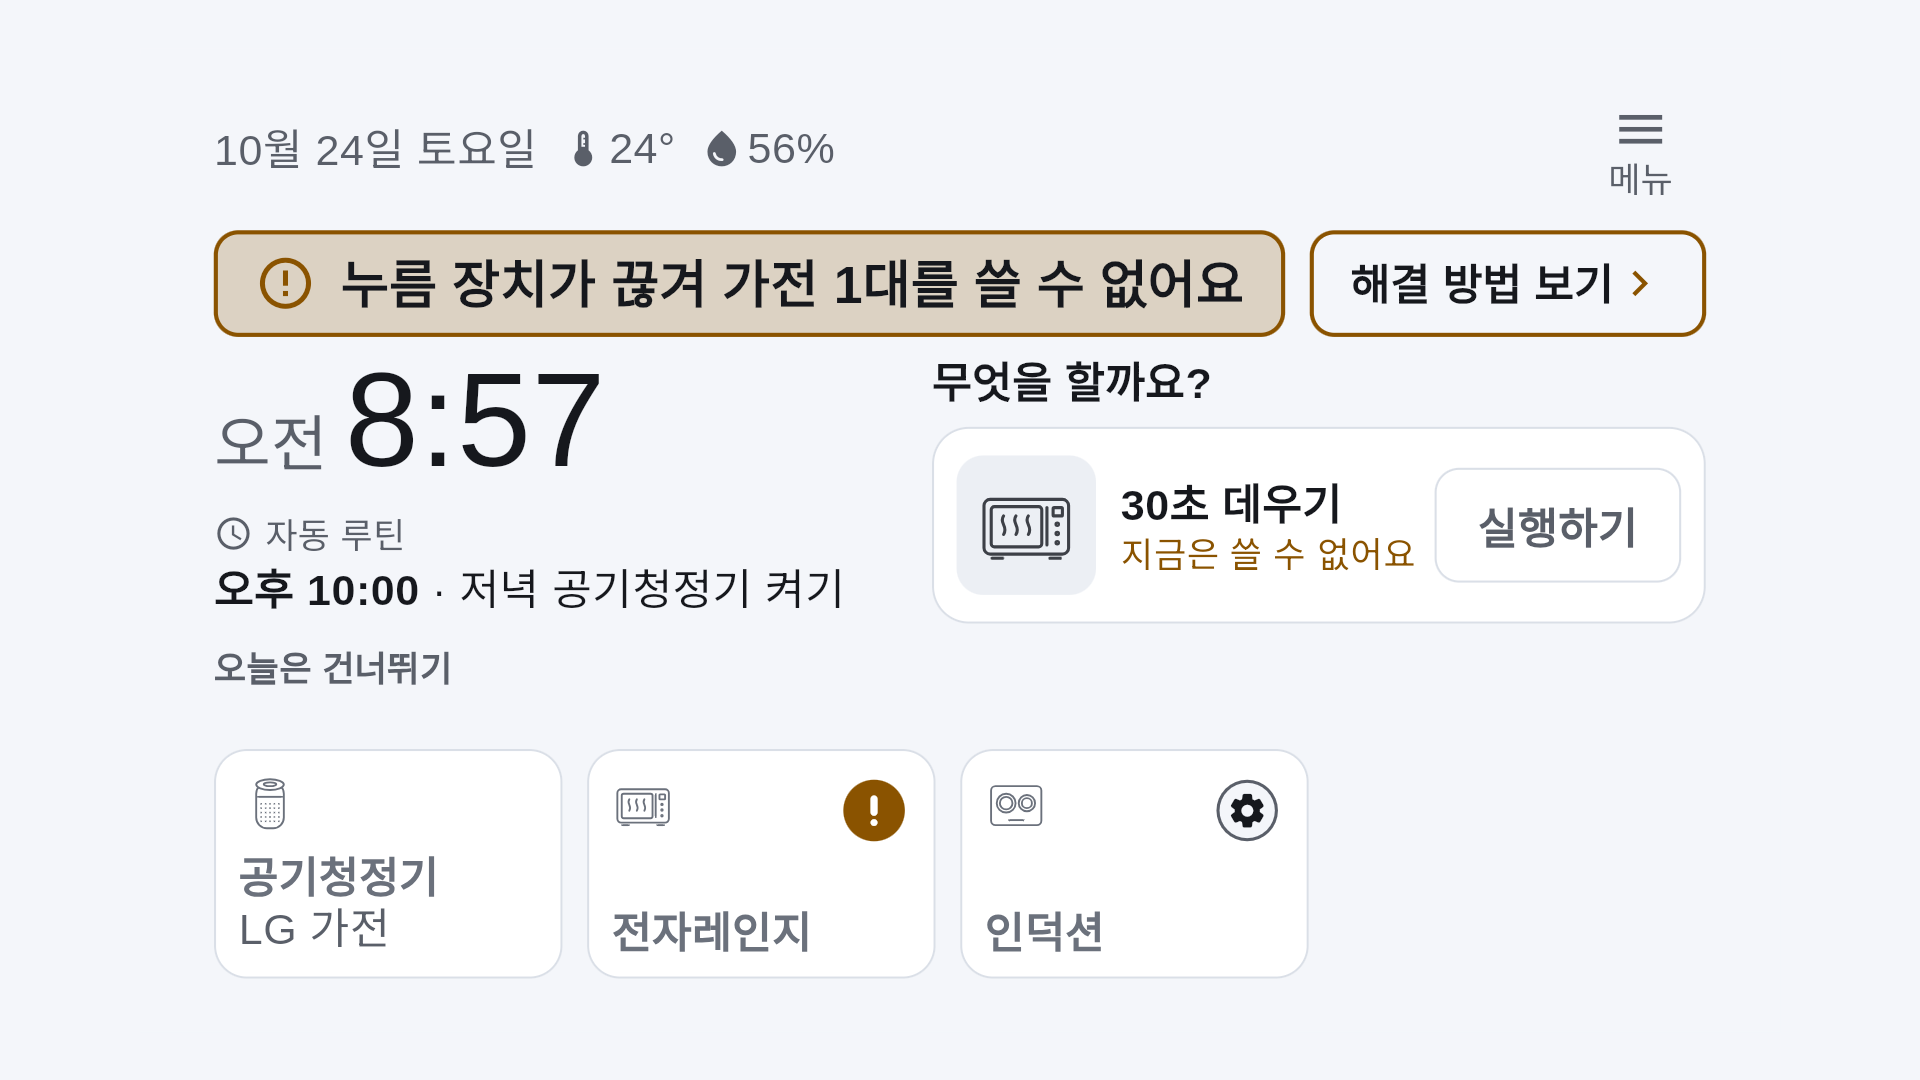
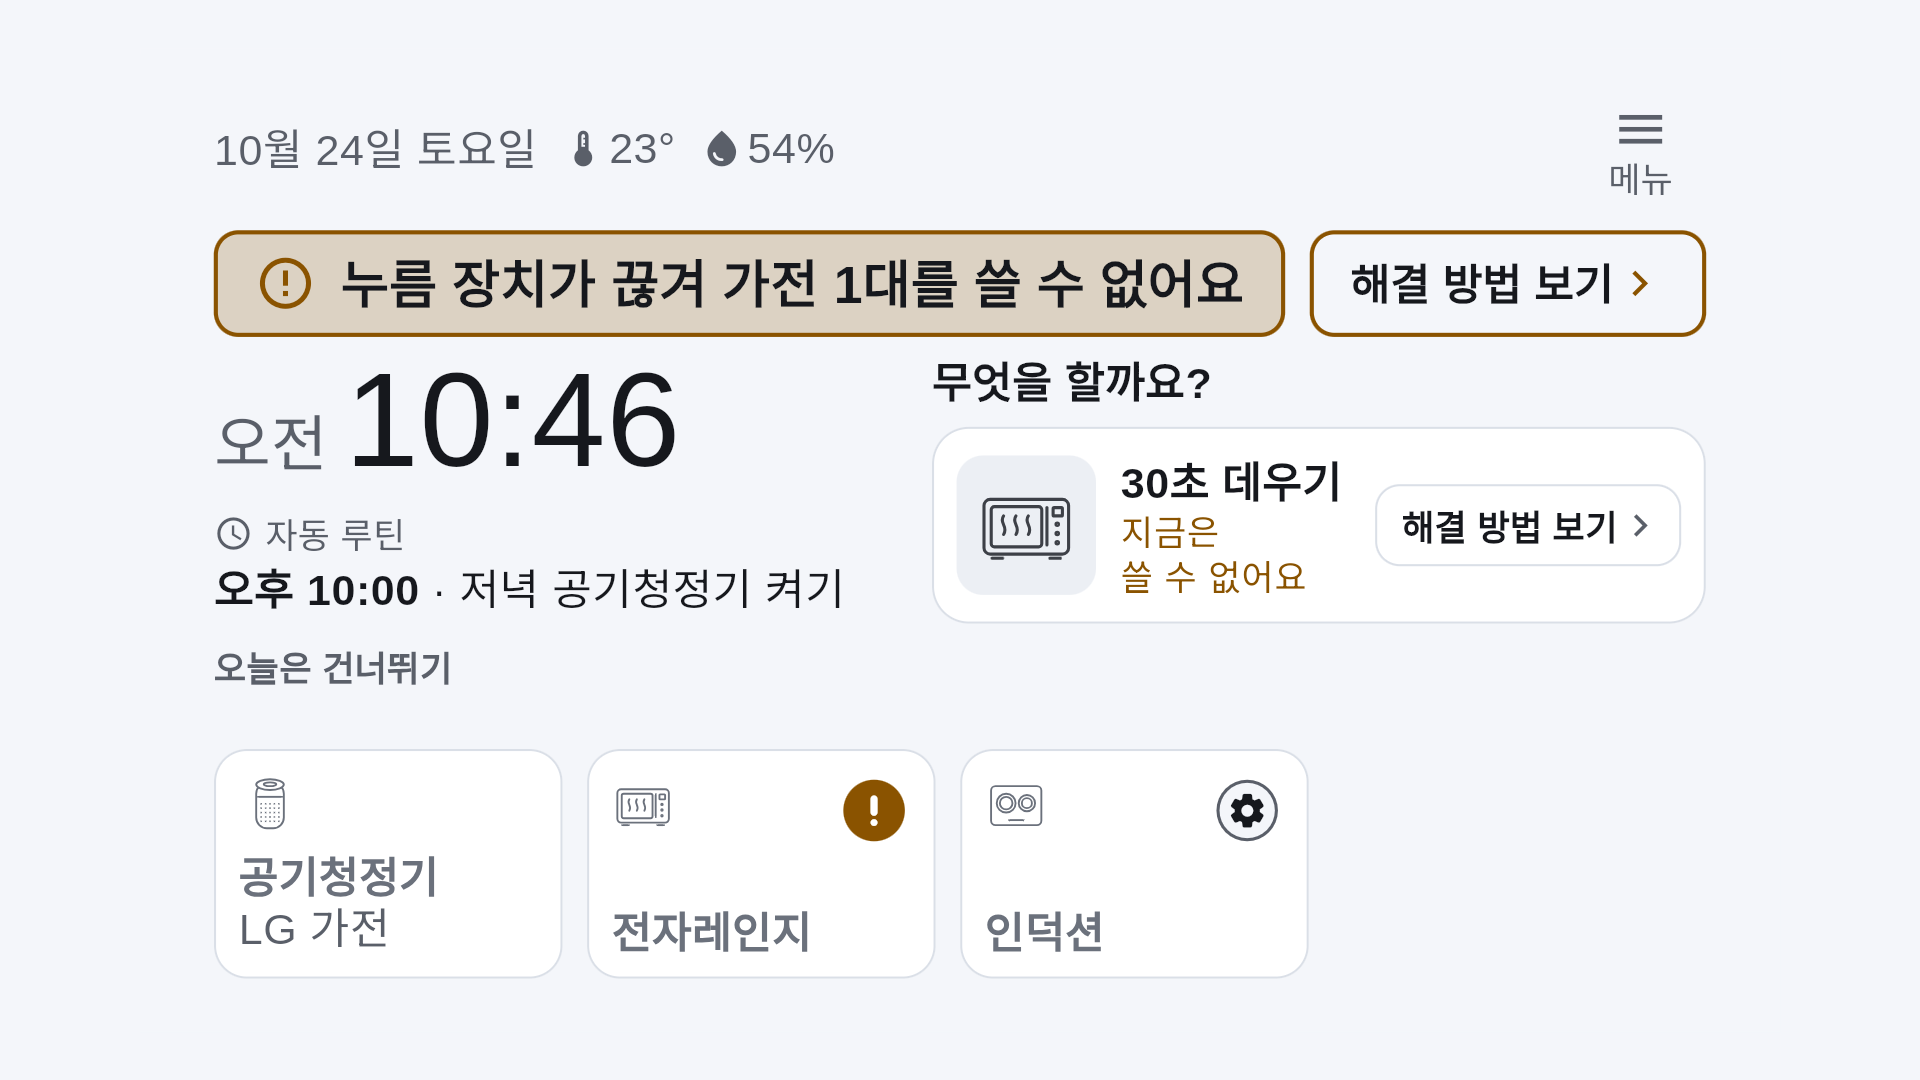
docs(devlog): 10/24 키오스크 개편·연속 조작·첫 사용 평가 3바퀴·코드 리뷰 기록, 실패널 처음 화면 갱신

diff --git a/docs/devlog/devlog_2026-10-24-kiosk-redesign-eval.md b/docs/devlog/devlog_2026-10-24-kiosk-redesign-eval.md
@@ -1,0 +1,49 @@
+# 2026-10-24 — 키오스크 개편·연속 조작·첫 사용 평가 3바퀴·코드 리뷰 (데스크톱)
+
+작업 방식(사용자 지시): 구현은 서브에이전트, 처음 쓰는 사람 관점 평가는 사전 정보 없는 평가 에이전트(매 바퀴 새로), 메인은 판단·커밋·배포.
+
+## 1. 한 일
+
+| 묶음 | 커밋 | 내용 |
+|---|---|---|
+| 가전 그림 통일 1단계 | `733cdac8` | 폰 기기 추가·편집 종류 고르기를 그림 카드로, 나머지 화면도 같은 가전 그림 |
+| 연속 조작(R7) | `e5a41f3c` | 키오스크에서 직접 고른 가전의 결과 뒤 '‹가전› 계속 조작'·'다른 가전 고르기'. 처음 화면 자동 복귀 없음, 명령을 다시 보내지 않음. 스스로 뜬 제안·이어받은 실행은 종전 |
+| 키오스크 시안 B | `0a05ddee` | 사용자 승인 시안([시안](../시안/키오스크-시안-2026-10-24.html)) 적용 — 폰과 같은 밝은 팔레트(설정에 '어두운 화면'), 공유 가전 그림 패키지(`packages/appliance_artwork`), 홈 '무엇을 할까요?', 가전 화면은 저장된 동작 먼저·버튼 직접 고르기는 보조 |
+| 실패널 확인 수리 | `aa6155c8` 외 | 대표 동작 후보를 폰 홈과 같게(시각 예약·꺼짐·알림만 제외), 막히면 '지금은 쓸 수 없어요'·'해결 방법 보기', 잘림 수리 |
+| 첫 사용 평가 1~3차 수리 | `f80ad07c`·`8c4208bb`·`76ea3569`·`dfeb28f1`·`4b8a8655` | 폰 버튼판·확인 창·홈 카드·저장한 동작 목록이 막힌 상태를 미리 말함, 다른 곳에서 시작한 실행에도 폰 홈 정지 줄, 누름 장치가 끊기면 위치 대신 끊김(실제 본체 모양 `needs_setup` 기준), 스위치 이름 통일, 손으로 누르기 화면의 버튼 그림을 화면 단추처럼 보이지 않게, 키오스크 사용 방법에 '기록·자동 실행 끄기는 휴대폰 앱' |
+| 서버·폰 | `9a21f315`·`975194a9` | 오늘 건너뛴 자동 실행에 다음 실행 시각(선택 필드), 누름 장치 끊김 문구에서 '다시 연결하는 중' 제거 |
+| 모션 어댑터 | `136fa206` | HW 담당 최신 스케치(부팅 문구 'v4', 규약은 그대로 JSON v2)와 기존 Touch Bridge 어댑터를 줄 단위 대조 — 접수 전 누름 거절은 '안 눌림', 접수 뒤 오류·무응답·정지는 '눌렸는지 모름', 요청하지 않은 STOPPED는 재시도 금지. [별도 기록](devlog_2026-10-24-v4-adapter.md) |
+| 코드 리뷰 수리 | `79309518` | **안전:** 계속 조작 결과·조작판에 머무는 동안 정지 대기(hold) 화면으로 못 가던 것 — 결과는 종전 복귀 시간 뒤, 조작판은 바로 hold로. 끊긴 채 사람 확인에 답하면 처음 화면·두 번 기록 막기, 확인 창도 현재 팔레트, 정지 단추 테두리 대비(밝은 배경에서 1.08:1이었다) |
+| 제출 그림 | `d254b41d`·`f5da8eac` 외 | 폰 16장 다시 찍음(실제 본체 연결), 키오스크 실패널 처음 화면 + 같은 코드 렌더 7장 |
+
+## 2. 평가 점수(처음 쓰는 사람 관점, 매번 다른 평가자 — 같은 잣대가 아님)
+
+| 바퀴 | 폰 | 키오스크 |
+|---|---|---|
+| 1차 | 72 | 78 |
+| 2차 | 74 | 72 |
+| 3차 | 72 | 78 |
+
+점수는 오르내렸지만 지적이 바뀌었다(1차: 막힌 상태를 누른 뒤에야 앎 → 3차: 용어·스위치 이름). 키오스크는 이미지로만 평가했고 실패널 조작 평가는 아니다.
+
+## 3. 배포·상태
+
+- 키오스크: RPi5 실패널에 마지막 커밋까지 설치(설치 응답 Success, 처음 화면 캡처로 확인).
+- 폰: 에뮬레이터에 설치.
+- **RPi5·RPi4 백엔드는 배포하지 않았다** — RPi4 실행기가 HW 인계로 멈춰 있고(규칙: 같은 커밋으로 함께 배포), `9a21f315`·`975194a9`·`136fa206`은 다음 보드 날 RPi4·RPi5 같은 커밋으로 올린다. 그 전까지 폰에는 옛 끊김 문구('다시 연결하는 중이에요')와 건너뛴 뒤 다음 시각 없음이 그대로 보인다.
+- 오늘 실물로 누른 것 없음(누름 장치 끊김). 실행·결과 화면 그림은 렌더이거나 10/20 사진이다.
+
+## 4. 남은 것·결정 필요
+
+- **사용자 결정:** 용어 통일(저장한 동작 / 루틴 / 자동 실행) — 세 평가 모두 지적. 어떤 말로 맞출지.
+- **사용자 확인:** 폰 정지 줄의 '다른 곳에서 시작한 일을 하고 있어요' 문구(에이전트가 고른 말).
+- R1(확인 못 함 결과의 '한 번 더 하기') 정책 미정 그대로.
+- 키오스크에서 결과 뒤 계속 조작 → 정지 대기(hold)로 바로 넘어가는 경우가 있다(안전 우선 선택). 실물에서 흐름 확인 필요.
+- HW 담당 확인: 스위치봇 누름 실패가 펌웨어 코드대로의 줄 모양으로 오는지, 실물 정지가 STOPPED로 오는지.
+- 하우징: 첫 업체 견적(약 30만 원)은 보류, 다른 업체(시간당 FDM)에 왼쪽 몸통+클립 선출력 견적 문의를 보냄(주문·결제 전).
+
+## 5. 시험
+
+- 키오스크 1,354(골든 포함 전체) 통과, analyze error·warning 0.
+- 폰 1,465(골든 제외) + 골든 79 통과, analyze error·warning 0.
+- 백엔드+rpi4 3,948 통과(리뷰 수리 뒤 전체).
